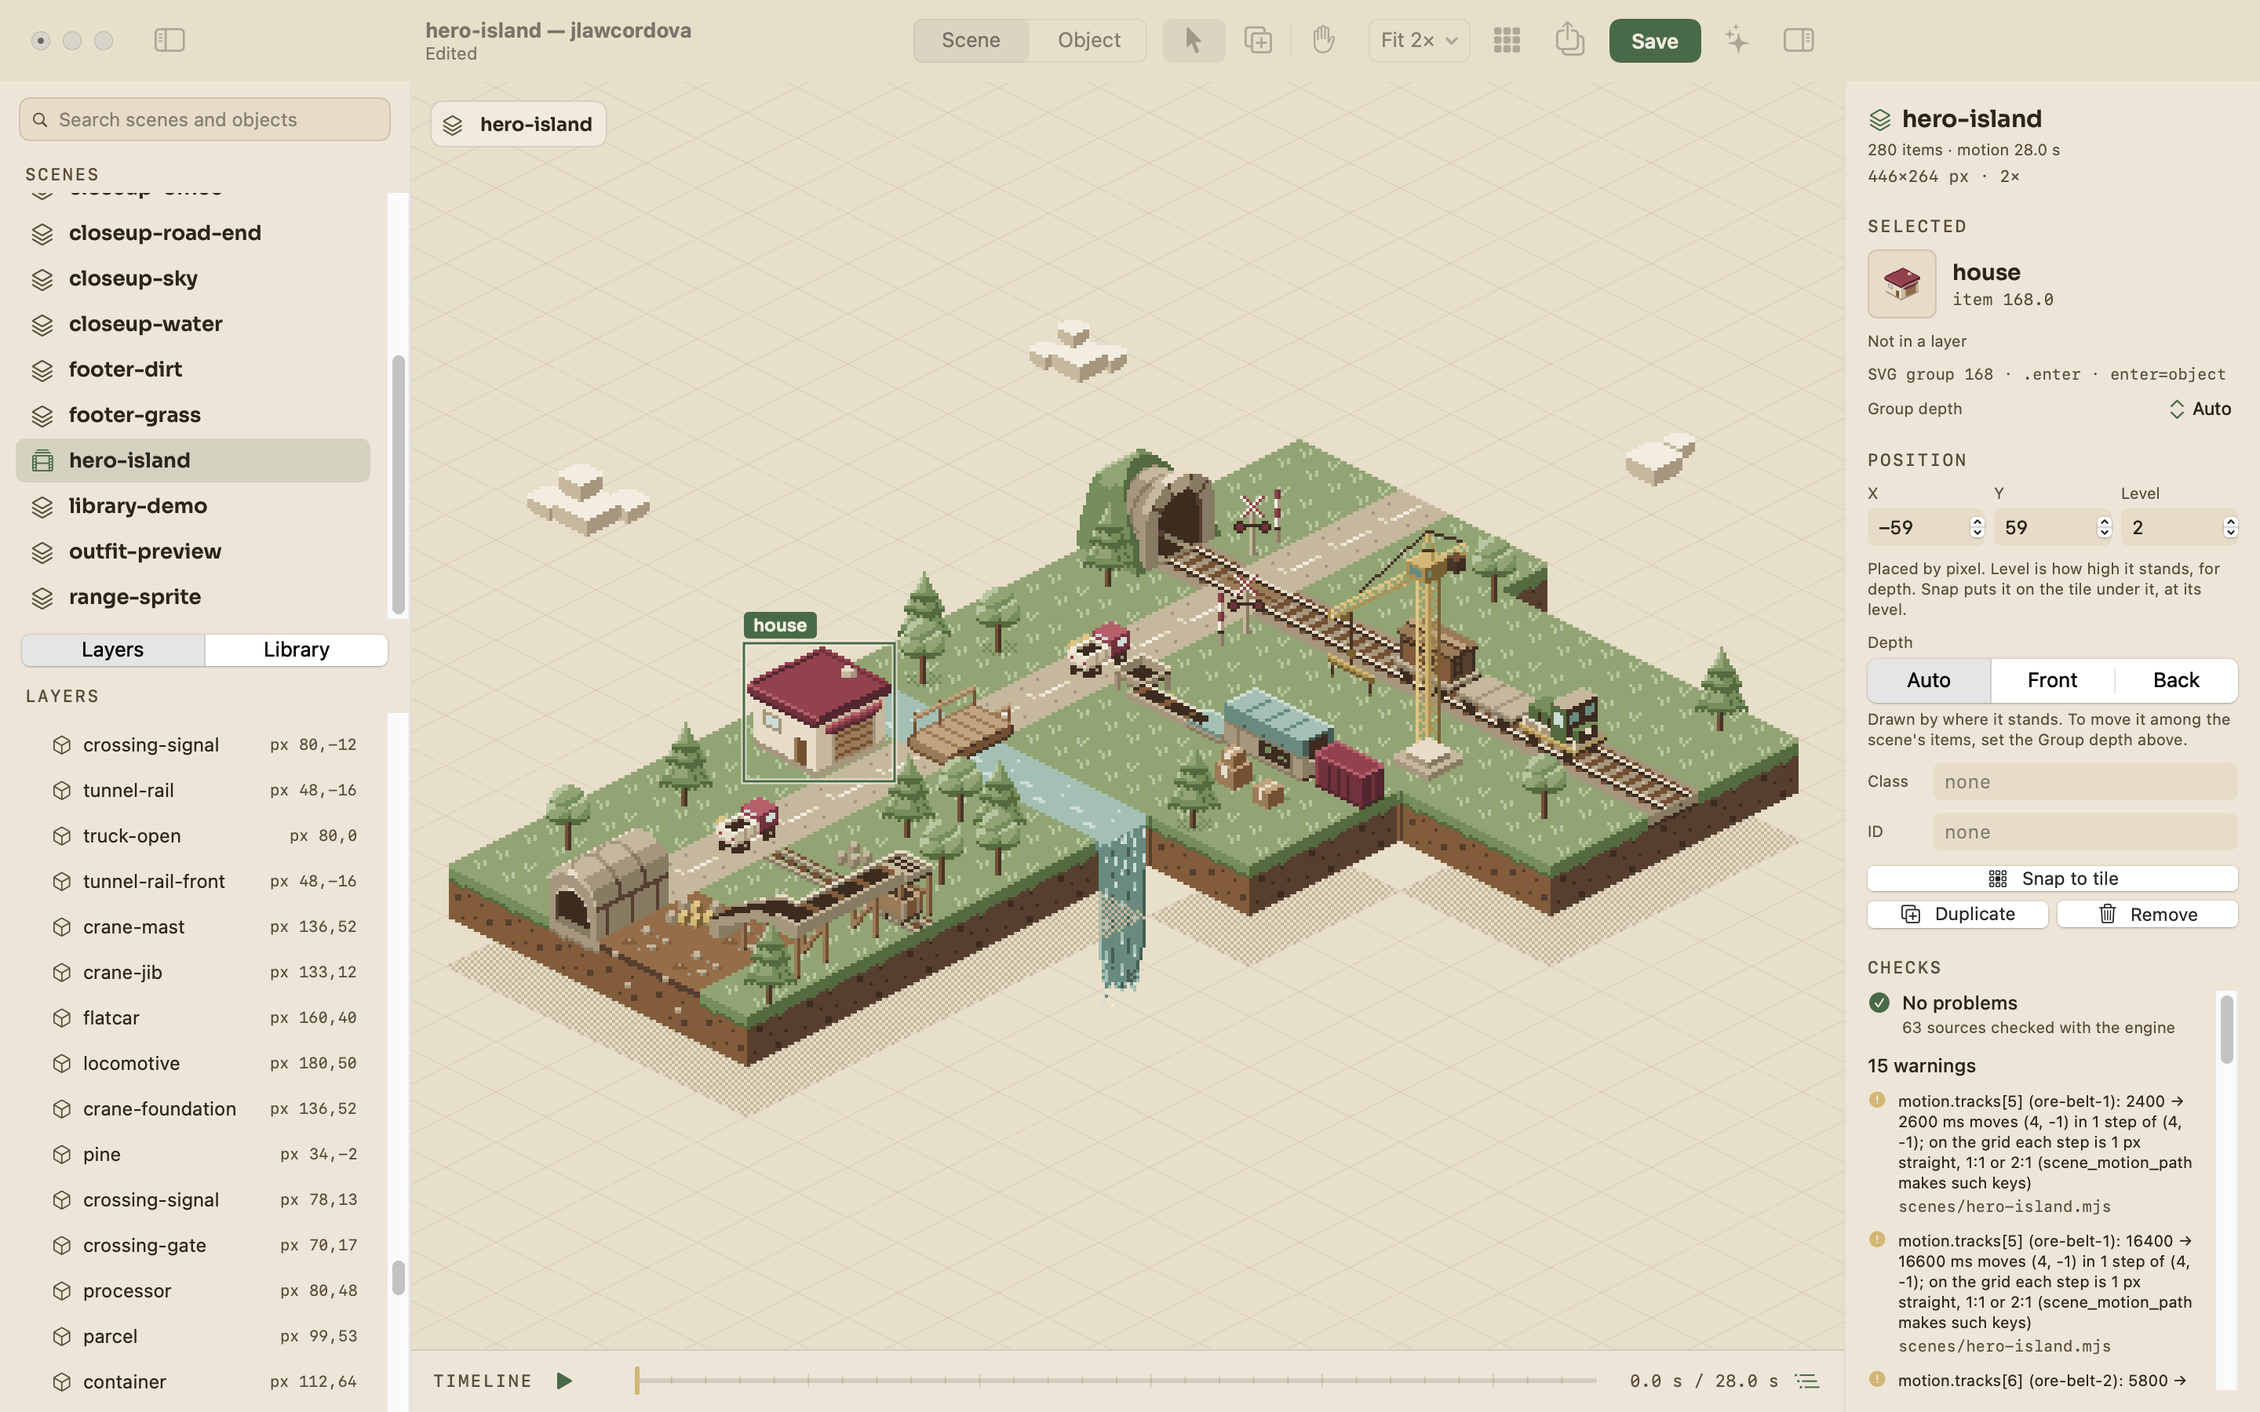
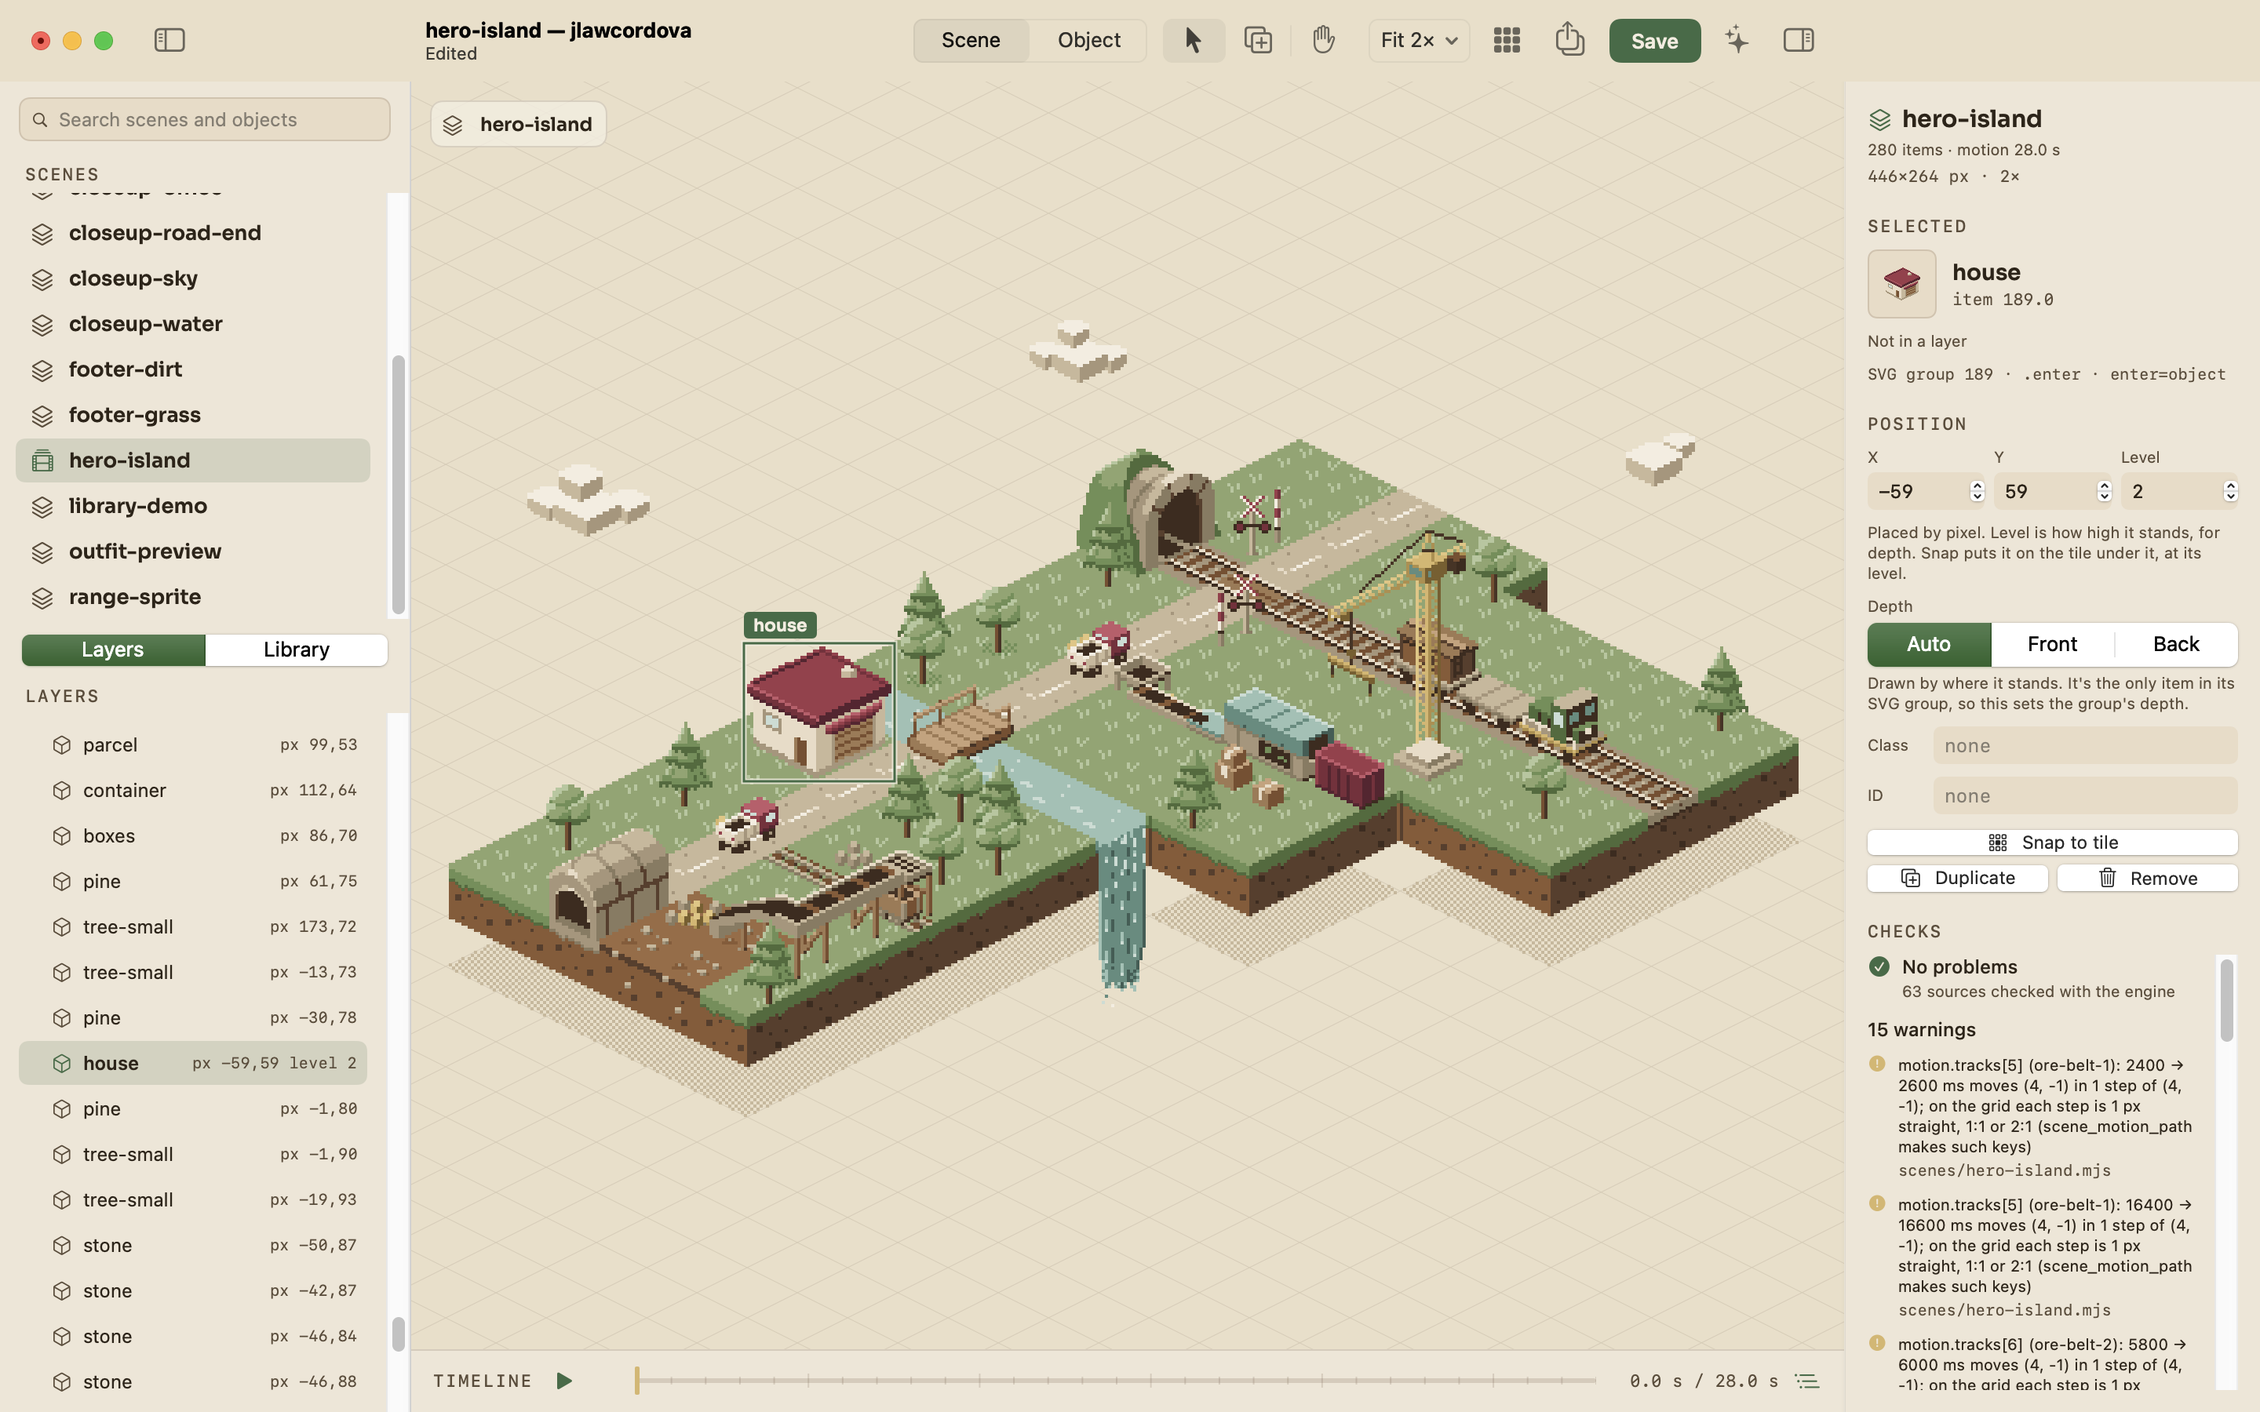
Undo and redo say where items went; an item alone in its SVG group sets the group's depth
doc.undo and doc.redo of a scene return reordered (old path to new path,
matched by content and then by object), so the app's selection follows
the pine back after an undone sort. The Depth control reads and writes the
wrapper's depth when the item is the only one in it; the Group depth chip
shows only for wrappers with several items, in the field style. The hook's
depth and expect depth follow the control; DepthTests, examples-depth.txt
and the depth-control and depth-group-menu snapshots are updated.

diff --git a/app/Sources/PixelLab/Support/ScriptRunner.swift b/app/Sources/PixelLab/Support/ScriptRunner.swift
@@ -15,8 +15,8 @@ import Foundation
 ///     key <spec> (right, opt+up, shift+down, delete, return, esc, v, 2)
 ///     move <dc> <dr> [<dl>]       nudge <dx> <dy>         set <col|row|level|x|y> <n>
 ///     class <text>  id <text>     duplicate remove snap
-///     depth front|back|auto   (the selected item's Depth control)   groupdepth <group path>|selected front|back|auto
-///         (the wrapper line's menu; `selected` is the selected item's group)
+///     depth front|back|auto   (the selected item's Depth control: the group's when the item is alone in its SVG group)
+///     groupdepth <group path>|selected front|back|auto   (the wrapper line's menu, for a group of several items; `selected` is the item's group)
 ///     sort   (Checks' Sort button: the scene's items in depth order)   set level <n>  (a pixel item's, too)
 ///     undo redo save [force] revert publish [<dir>] done   saveas <path.pixellab>
 ///     time <ms>  play  pause  tracks on|off   zoom fit|1-4   sidebar library|items
@@ -26,7 +26,7 @@ import Foundation
 ///     expect dirty|selected|object|at|items|problems|build|outputs|publishdir|document|tool|time <value>
 ///     expect scenes|objects|zoom|badge|theme|ghosttime <value>   expect scenepixel <x>,<y> <#RRGGBB|empty>
 ///     expect stale true|false     (the banner shows)   expect mergealert true|false
-///     expect depth front|back|auto   expect level <n>   expect groupdepth <path>|selected front|back|auto
+///     expect depth front|back|auto (what the Depth control shows)   expect level <n>   expect groupdepth <path>|selected front|back|auto
 ///     expect order <entry entry …>   (the scene's items in list order: each entry is a path, `#id`, `selected`,
 ///         an object name (its first item) or `name@col,row,level`; they must appear in that order)
 ///     expect warning <code>   expect nowarning <code>   (check's warnings: off_grid, out_of_order, copies)
@@ -320,7 +320,7 @@ final class ScriptRunner {
         case "depth":
             guard let mode = DepthMode(rawValue: try arg(words, 1)) else { throw Failure("depth front|back|auto") }
             guard doc?.selectedItem != nil else { throw Failure("nothing selected") }
-            if doc?.selectedItem?.depthMode == mode { return "already \(mode.rawValue)" }
+            if let doc, let item = doc.selectedItem, doc.depthMode(of: item) == mode { return "already \(mode.rawValue)" }
             return try needEdit(await editor.setDepth(mode))
         case "groupdepth":
             guard let mode = DepthMode(rawValue: try arg(words, 2)) else { throw Failure("groupdepth <group path>|selected front|back|auto") }
@@ -948,7 +948,8 @@ final class ScriptRunner {
         case "frames": got = String(model.objectEditor.frameCount)
         case "hidden": got = model.objectEditor.hidden.sorted().map(String.init).joined(separator: ",")
         case "calls": got = String(model.objectEditor.lastStrokeCalls)
-        case "depth": got = doc?.selectedItem?.depthMode.rawValue ?? "none"
+        // What the Depth control shows: the group's depth when the item is alone in its SVG group.
+        case "depth": got = doc.flatMap { d in d.selectedItem.map { d.depthMode(of: $0).rawValue } } ?? "none"
         case "level": got = doc?.selectedItem?.at.standingLevel.map(String.init) ?? "none"
         case "groupdepth":
             let parts = words.dropFirst(2)

diff --git a/app/Sources/PixelLab/Views/SelectionInspector.swift b/app/Sources/PixelLab/Views/SelectionInspector.swift
@@ -103,9 +103,12 @@ struct SelectionInspector: View {
     /// Auto draws it by where it stands; Front and Back draw it over or under
     /// everything else in its list (R5).
     private func depthControl(_ item: SceneItemInfo, editor: SceneEditor) -> some View {
-        VStack(alignment: .leading, spacing: 4) {
+        // Alone in its SVG group, the item sorts as the group does: the control reads and writes the group's depth.
+        let mode = doc.depthMode(of: item)
+        let sole = doc.soleGroup(of: item) != nil
+        return VStack(alignment: .leading, spacing: 4) {
             Text("Depth").font(.caption).foregroundStyle(Theme.inkMuted)
-            Picker("Depth", selection: Binding(get: { item.depthMode }, set: { mode in Task { await editor.setDepth(mode) } })) {
+            Picker("Depth", selection: Binding(get: { mode }, set: { mode in Task { await editor.setDepth(mode) } })) {
                 ForEach(DepthMode.allCases) { Text($0.title).tag($0) }
             }
             .pickerStyle(.segmented)
@@ -113,12 +116,14 @@ struct SelectionInspector: View {
             .controlSize(.large)
             .help("Front draws it over everything in its list; Back under everything")
             .accessibilityLabel("Depth")
-            .accessibilityValue(item.depthMode.title)
-            .accessibilityHint(item.depthMode.detail)
-            // An item inside a { group } wrapper sorts only among that group's items; the wrapper is what sorts in the scene.
-            Text(item.group == nil
-                 ? item.depthMode.detail + "."
-                 : item.depthMode.detail.replacingOccurrences(of: "its list", with: "its SVG group") + ". To move it among the scene's items, set the Group depth above.")
+            .accessibilityValue(mode.title)
+            .accessibilityHint(mode.detail)
+            // In a { group } wrapper with other items, the item sorts only among the group's items; the wrapper is what sorts in the scene.
+            Text(sole
+                 ? mode.detail + ". It's the only item in its SVG group, so this sets the group's depth."
+                 : item.group == nil
+                 ? mode.detail + "."
+                 : mode.detail.replacingOccurrences(of: "its list", with: "its SVG group") + ". To move it among the scene's items, set the Group depth above.")
                 .font(.caption)
                 .foregroundStyle(Theme.inkMuted)
                 .lineLimit(4)

diff --git a/app/Sources/PixelLab/Views/LayerInspector.swift b/app/Sources/PixelLab/Views/LayerInspector.swift
@@ -226,10 +226,13 @@ struct ItemLayerLines: View {
                 .lineLimit(1)
                 .truncationMode(.tail)
                 .help("The site's wrapper around the item (scene group set edits it)")
-            HStack(spacing: 6) {
-                Text("Group depth").font(.caption).foregroundStyle(Theme.inkMuted)
-                Spacer(minLength: 0)
-                groupDepthMenu(group)
+            // Alone in the group, the item's own Depth control is the group's: no second control.
+            if group.items > 1 {
+                HStack(spacing: 6) {
+                    Text("Group depth").font(.caption).foregroundStyle(Theme.inkMuted)
+                    Spacer(minLength: 0)
+                    groupDepthMenu(group)
+                }
             }
         }
     }
@@ -245,20 +248,19 @@ struct ItemLayerLines: View {
             .pickerStyle(.inline)
             .labelsHidden()
         } label: {
-            // A chip of the field style, so it reads the same whether or not the window is key.
             HStack(spacing: 5) {
-                Text(mode.title).font(.system(size: 11.5)).foregroundStyle(Theme.ink)
+                Text(mode.title).font(Theme.monoFont(12)).foregroundStyle(Theme.ink)
                 Image(systemName: "chevron.up.chevron.down").font(.system(size: 8, weight: .semibold)).foregroundStyle(Theme.inkMuted)
             }
-            .padding(.horizontal, 8)
-            .frame(minWidth: 62, minHeight: 26)
-            .background(Theme.card, in: RoundedRectangle(cornerRadius: 5, style: .continuous))
-            .overlay(RoundedRectangle(cornerRadius: 5, style: .continuous).strokeBorder(Theme.border, lineWidth: 1))
-            .contentShape(Rectangle())
         }
         .menuStyle(.borderlessButton)
         .menuIndicator(.hidden)
         .fixedSize()
+        // The look of the inspector's fields (Theme.card, 5 pt corners), put on the menu itself: a menu flattens its label.
+        .padding(.horizontal, 8)
+        .frame(minWidth: 78, minHeight: 26)
+        .background(Theme.card, in: RoundedRectangle(cornerRadius: 5, style: .continuous))
+        .overlay(RoundedRectangle(cornerRadius: 5, style: .continuous).strokeBorder(Theme.border, lineWidth: 1))
         .help("Depth of the SVG group: Front draws it over everything in its list, Back under everything")
         .accessibilityLabel("Group depth")
         .accessibilityValue(mode.title)

diff --git a/app/Tests/PixelLabTests/DepthTests.swift b/app/Tests/PixelLabTests/DepthTests.swift
@@ -91,6 +91,29 @@ import Testing
         #expect(try decode(SceneSortResult.self, #"{"changed":false,"summary":"Already in depth order","moved":[],"changedPixels":0}"#).reordered == nil)
     }
 
+    @Test func testR4UndoResultsCarryReorderedToo() throws {
+        let r = try decode(UndoResult.self, #"{"doc":"scene:x","changed":true,"summary":"Undid: pine moved","dirty":false,"canUndo":false,"canRedo":true,"reordered":{"8":"80","80":"8"}}"#)
+        #expect(r.reordered == ["8": "80", "80": "8"])
+        #expect(try decode(UndoResult.self, #"{"doc":"scene:x","dirty":false,"canUndo":false,"canRedo":false}"#).reordered == nil)
+    }
+
+    @MainActor @Test func testR14AnItemAloneInItsGroupReadsAndWritesTheGroupsDepth() {
+        let doc = DocumentModel(ref: DocRef(.scene, "harbor"))
+        doc.groups = [
+            SceneGroupInfo(path: "0", attrs: [:], items: 1, depth: "front"),
+            SceneGroupInfo(path: "1", attrs: [:], items: 2, depth: "back"),
+        ]
+        let alone = SceneItemInfo(path: "0.0", object: "pine", at: ItemAt(tile: [0, 1, 0]), group: "0", depth: "back")
+        let shared = SceneItemInfo(path: "1.0", object: "grass", at: ItemAt(tile: [0, 0, 0]), group: "1")
+        let bare = SceneItemInfo(path: "2", object: "rock", at: ItemAt(tile: [1, 0, 0]), depth: "front")
+        #expect(doc.soleGroup(of: alone)?.path == "0")
+        #expect(doc.depthMode(of: alone) == .front, "the group's, not the item's own back")
+        #expect(doc.soleGroup(of: shared) == nil)
+        #expect(doc.depthMode(of: shared) == .auto, "the item's own, with several in the group")
+        #expect(doc.soleGroup(of: bare) == nil)
+        #expect(doc.depthMode(of: bare) == .front)
+    }
+
     @MainActor @Test func testR4TheSelectionFollowsItsItemsToTheirNewPaths() {
         let doc = DocumentModel(ref: DocRef(.scene, "harbor"))
         // The pine (3) and the house (4) swap places; layer ids and other paths stay.

diff --git a/app/Sources/PixelLab/Model/DocumentModel.swift b/app/Sources/PixelLab/Model/DocumentModel.swift
@@ -74,6 +74,19 @@ final class DocumentModel {
 
     var selectedItem: SceneItemInfo? { selectedPath.flatMap { itemsByPath[$0] } }
 
+    /// The SVG group around an item when the item is its only member. Such a
+    /// group sorts as the item does, so the item's Depth control reads and
+    /// writes the group's depth (docs/intents/2026-10-depth-order/spec.md, R9, D7).
+    func soleGroup(of item: SceneItemInfo) -> SceneGroupInfo? {
+        guard let path = item.group, let group = groups.first(where: { $0.path == path }), group.items == 1 else { return nil }
+        return group
+    }
+
+    /// What the Depth control shows for an item: its wrapper's depth when it is alone in it, else its own.
+    func depthMode(of item: SceneItemInfo) -> DepthMode {
+        soleGroup(of: item)?.depthMode ?? item.depthMode
+    }
+
     /// The selected layer, when the selection is one layer.
     var selectedLayer: String? {
         if selection.count == 1, case .layer(let id) = selection[0] { return id }

diff --git a/app/Sources/PixelLab/Model/SceneEditor.swift b/app/Sources/PixelLab/Model/SceneEditor.swift
@@ -417,10 +417,12 @@ final class SceneEditor {
 
     /// The Depth control: draw the selected item by where it stands (`auto`), over
     /// everything else in its list (`front`) or under it (`back`)
-    /// (docs/intents/2026-10-depth-order/spec.md, R5, R14).
+    /// (docs/intents/2026-10-depth-order/spec.md, R5, R14). An item alone in its
+    /// SVG group sorts as that group, so the control sets the group's depth.
     @discardableResult
     func setDepth(_ mode: DepthMode) async -> EditResult? {
-        guard let item = selected, item.depthMode != mode else { return nil }
+        guard let doc, let item = selected, doc.depthMode(of: item) != mode else { return nil }
+        if let group = doc.soleGroup(of: item) { return await setGroupDepth(group.path, mode) }
         return await edit("scene.set", ["item": .string(item.path), "depth": .string(mode.rawValue)])
     }
 

diff --git a/app/Sources/PixelLab/Model/AppModel.swift b/app/Sources/PixelLab/Model/AppModel.swift
@@ -775,6 +775,8 @@ final class AppModel {
             doc.status = DocStatus(doc: r.doc, dirty: r.dirty, canUndo: r.canUndo, canRedo: r.canRedo)
             if r.dirty { dirtyDocs.insert(r.doc) } else { dirtyDocs.remove(r.doc) }
             if let s = r.summary { lastEdit = s }
+            // The step may have given items other paths: the selection follows its items.
+            if document === doc { layers.followSort(r.reordered) }
         } catch {
             notice = error.localizedDescription
         }

diff --git a/app/Sources/PixelLab/Server/Protocol.swift b/app/Sources/PixelLab/Server/Protocol.swift
@@ -198,6 +198,9 @@ struct UndoResult: Codable, Sendable {
     var doc: String
     var changed: Bool?
     var summary: String?
+    /// A scene's undo or redo can give items other paths (it swaps the whole doc):
+    /// old path → new, as for an edit.
+    var reordered: [String: String]?
     var dirty: Bool
     var canUndo: Bool
     var canRedo: Bool

diff --git a/docs/cli.md b/docs/cli.md
@@ -366,6 +366,8 @@ Redo the last undone edit to an open doc.
 pixellab doc redo <doc>
 ```
 
+A scene edit and its depth sort are one step, so undoing it can give items other paths. When it does, the result has reordered: every path that changed, old → new (an item whose placement the step changed pairs with itself), for a caller holding paths.
+
 edits docs · session only (`serve`) · MCP tool `doc_redo`
 
 | param | type | | description |
@@ -444,6 +446,8 @@ Undo the last edit to an open doc.
 ```
 pixellab doc undo <doc>
 ```
+
+A scene edit and its depth sort are one step, so undoing it can give items other paths. When it does, the result has reordered: every path that changed, old → new (an item whose placement the step changed pairs with itself), for a caller holding paths.
 
 edits docs · session only (`serve`) · MCP tool `doc_undo`
 
